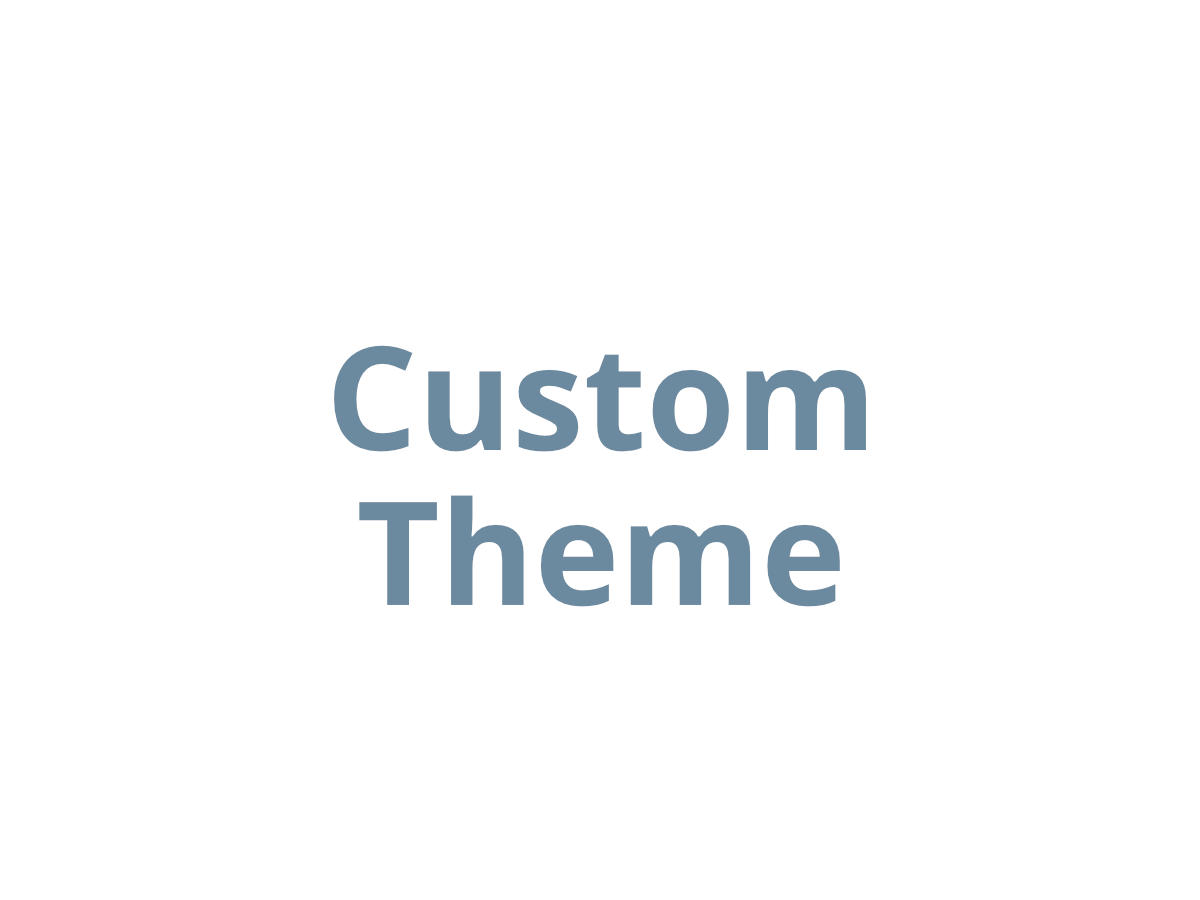
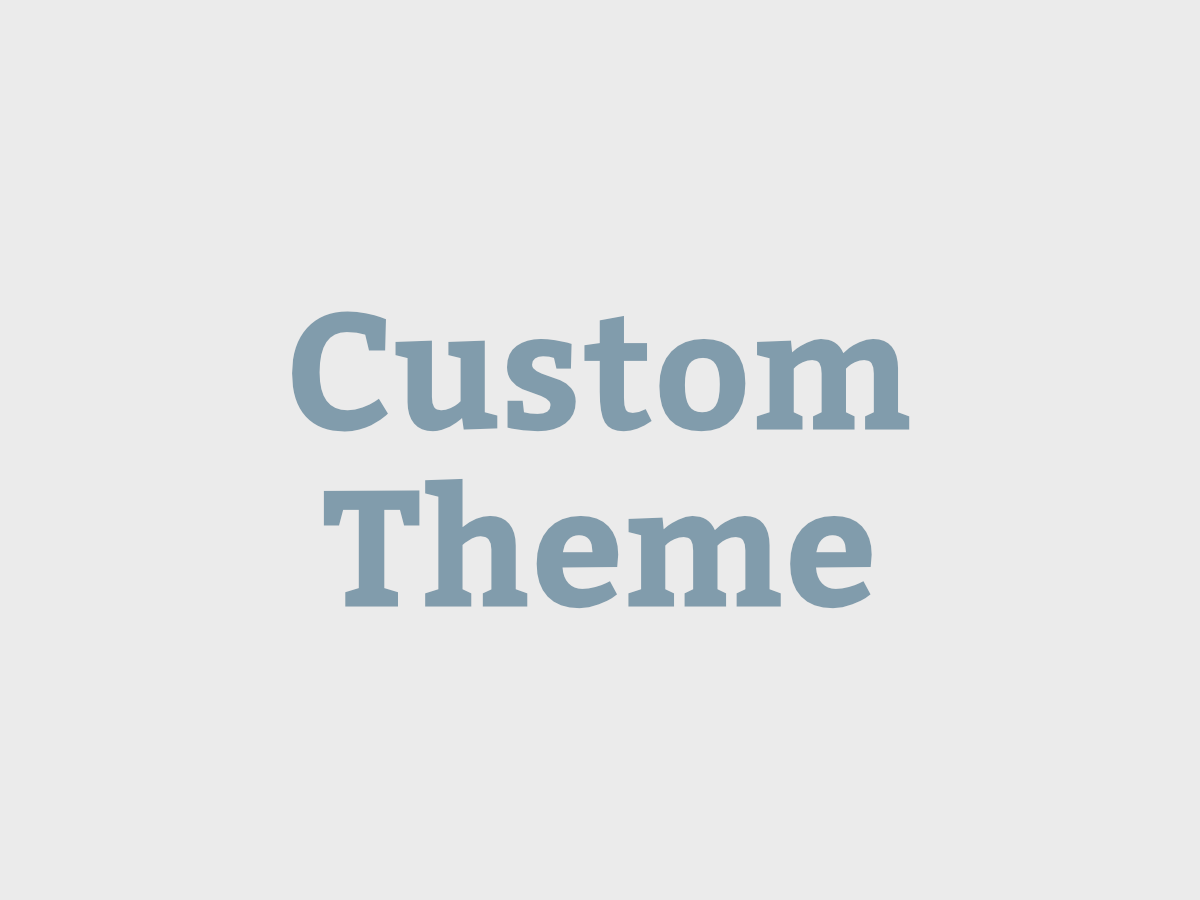
feat(custom-theme): rearrange `custom-theme` assets (#13)
### Chores
* Updated packaging configuration to exclude temporary files, cache, and system artifacts from distribution
* Updated theme author information

---------

Changed region(s): [[0.2158, 0.3422, 0.7708, 0.4978], [0.2467, 0.5289, 0.74, 0.6844]]

diff --git a/packages/custom-theme/style.css b/packages/custom-theme/style.css
@@ -6,8 +6,8 @@
  * Domain Path: /languages
  * Template: blocksy
  * Version: 0.0.1
- * Author: CreativeThemes
- * Author URI: https://creativethemes.com
+ * Author: Fery Wardiyanto
+ * Author URI: https://feryardiant.id
  * Copyright: (c) 2026 Fery Wardiyanto.
  * Tested up to: 6.9
  * Requires at least: 6.0

diff --git a/packages/custom-theme/functions.php b/packages/custom-theme/functions.php
@@ -12,11 +12,11 @@ defined( 'CUSTOM_THEME_VERSION' ) || define( 'CUSTOM_THEME_VERSION', '0.0.1' );
 add_action(
 	'wp_enqueue_scripts',
 	static function (): void {
-		$theme = wp_get_theme( get_stylesheet() );
+		$theme = wp_get_theme();
 
 		wp_register_script(
 			$theme->stylesheet,
-			get_stylesheet_directory_uri() . '/assets/custom.js',
+			$theme->get_stylesheet_directory_uri() . '/assets/custom.js',
 			array(),
 			$theme->version,
 			array( 'strategy' => 'defer' )